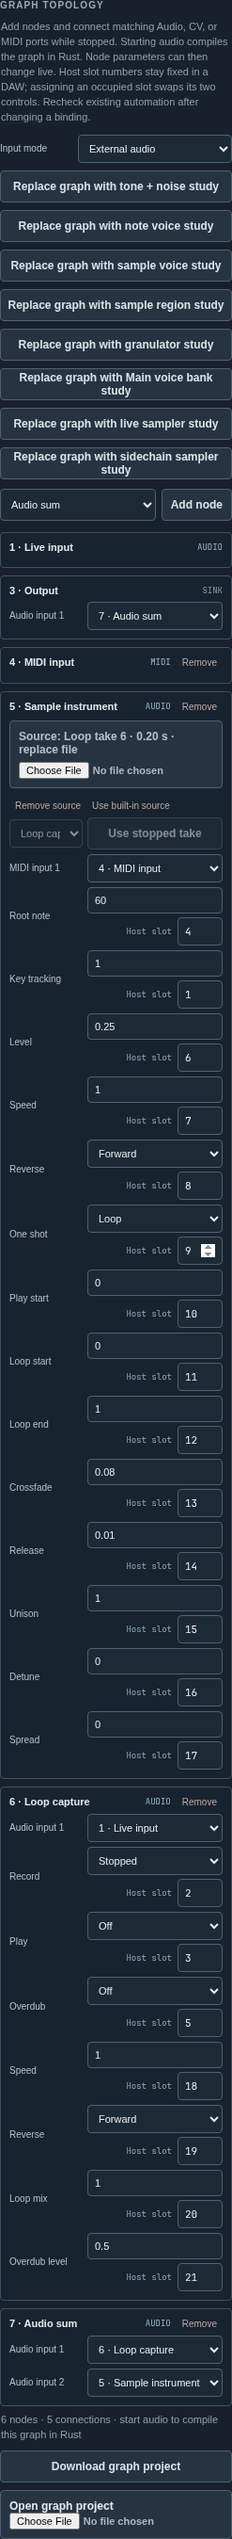
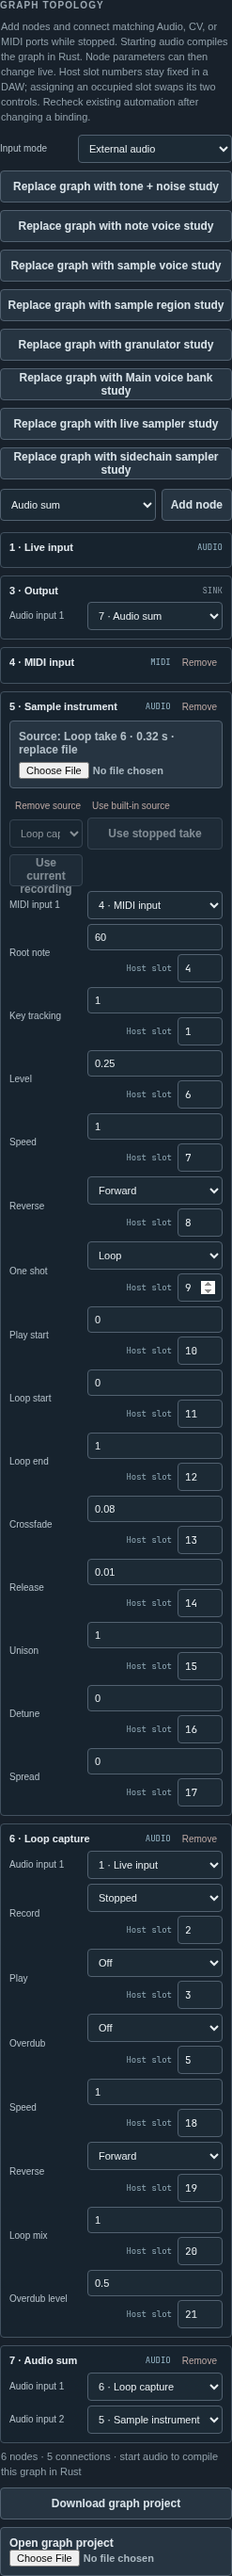
Publish recording window into running graph sampler

diff --git a/web/public/graph-recording-window-review.html b/web/public/graph-recording-window-review.html
@@ -1,0 +1,13 @@
+<!doctype html>
+<html lang="en"><head><meta charset="utf-8"><meta name="viewport" content="width=device-width, initial-scale=1">
+<title>Manifold v2 · Recording window handoff</title>
+<style>
+:root{color-scheme:light;--bg:#f5f4ef;--paper:#fffefa;--ink:#282d2a;--muted:#5b6860;--line:#d5dbd4;--accent:#315f50;--warm:#9c593d;font-family:system-ui,sans-serif}
+@media(prefers-color-scheme:dark){:root{color-scheme:dark;--bg:#171d1a;--paper:#212a25;--ink:#edece5;--muted:#b8c3b8;--line:#414d44;--accent:#a6d3b5;--warm:#e1a17f}}
+*{box-sizing:border-box}body{margin:0;background:var(--bg);color:var(--ink)}main{max-width:1020px;margin:auto;padding:3rem 1.2rem 5rem}h1,h2{font-family:Georgia,serif;font-weight:400;line-height:1.1}h1{font-size:clamp(3rem,7vw,5rem);margin:.6rem 0 1rem}h2{font-size:2rem;margin:0 0 1rem}p{line-height:1.55;max-width:74ch}.eyebrow,small{font:12px/1.5 ui-monospace,monospace;color:var(--warm);letter-spacing:.06em}header{border-top:2px solid var(--ink);padding-top:1.3rem}a{color:var(--accent)}.actions{display:flex;gap:.7rem;flex-wrap:wrap;margin:1.5rem 0}.actions a{border:1px solid var(--accent);padding:.6rem .9rem;text-decoration:none}.actions a:first-child{background:var(--accent);color:var(--paper)}section{border-top:1px solid var(--line);padding-top:1.4rem;margin-top:2.5rem}.grid{display:grid;grid-template-columns:repeat(3,1fr);gap:.8rem}.card{background:var(--paper);border:1px solid var(--line);padding:1rem}.card strong{display:block;font-size:1.05rem}.card p{font-size:.9rem;color:var(--muted)}.flow{display:flex;gap:.5rem;flex-wrap:wrap;align-items:center}.flow span{font:12px ui-monospace,monospace;border:1px solid var(--line);background:var(--paper);padding:.6rem}.flow b{color:var(--accent)}.note{border-left:3px solid var(--accent);background:var(--paper);padding:.8rem 1rem}.note p{margin:0}@media(max-width:680px){.grid{grid-template-columns:1fr}}
+</style></head><body><main>
+<header><div class="eyebrow">MANIFOLD V2 / SAMPLER CHECKPOINT / 27 SEPTEMBER 2026</div><h1>Take the window.<br>Keep recording.</h1><p>Loop Capture can now publish its current two-second ring window into a running Rust/Wasm Sample Instrument. The recorder continues; new notes adopt the window; held notes keep the PCM they started with.</p><div class="actions"><a href="/?primitive=graph-workspace">Open graph workspace</a><a href="/graph-live-sampler-review.html">Earlier stopped-take proof</a></div></header>
+<section><h2>Try the handoff</h2><div class="grid"><div class="card"><small>01 · START</small><strong>Load the live sampler study</strong><p>In Graph workspace choose the live sampler template. Start audio and play a note on the keyboard.</p></div><div class="card"><small>02 · RECORD</small><strong>Capture an input</strong><p>Set Loop capture 6 to Recording. The test oscillator works without microphone permission; the separate sidechain study also works.</p></div><div class="card"><small>03 · PUBLISH</small><strong>Use current recording</strong><p>Press the new button below Sample instrument 5. Play another note. Repeat while the recorder runs, or stop it and use the completed take.</p></div></div></section>
+<section><h2>What changes in the engine</h2><div class="flow"><span>stereo input</span><b>→</b><span>bounded ring</span><b>→</b><span>ordered snapshot</span><b>→</b><span>new-note source</span></div><p>One AudioWorklet message handler copies the ring oldest to newest, including after wrap, and publishes that same window to the Rust instrument between render calls. A transferable PCM copy becomes the graph project asset for save and reopen. The older “Use stopped take” control still requires recording to stop.</p><div class="note"><p>The deterministic worklet check exercises publication during recording, continued capture, held-note source continuity, new-note adoption, the stopped-take gate, and the sidechain input. The Rust ring test checks ordering after wrap. The full Rust workspace tests and browser build pass.</p></div></section>
+<section><h2>Next boundary</h2><p>This is a user-triggered snapshot, not an always-running retrospective capture service. Publication allocates and copies in a worklet message handler on the audio thread, so frequent or automatic publication needs staged transfer and an underrun measurement first. The two-second study is bounded; its sample data is saved with the graph project.</p></section>
+</main></body></html>

diff --git a/web/src/graph/editor.js b/web/src/graph/editor.js
@@ -239,23 +239,30 @@ export function mountGraphEditor(section, project, { isRunning, isActive, onChan
           publish.className = 'gate-button graph-capture-action';
           publish.textContent = 'Use stopped take';
           publish.setAttribute('aria-label', `Use stopped take for sample instrument ${node.id}`);
-          publish.addEventListener('click', async () => {
+          const publishLive = document.createElement('button');
+          publishLive.type = 'button';
+          publishLive.className = 'gate-button graph-capture-action';
+          publishLive.textContent = 'Use current recording';
+          publishLive.setAttribute('aria-label', `Use current recording for sample instrument ${node.id}`);
+          const useCapture = async (live) => {
             if (!isRunning() || !canChangeParameter()) return;
             const startingRevision = revision;
             busy = true;
             refreshRunning(false);
-            status.textContent = `Publishing loop capture ${source.value} to sample instrument ${node.id}…`;
+            status.textContent = `Publishing ${live ? 'recording window' : 'stopped take'} ${source.value} to sample instrument ${node.id}…`;
             try {
-              const asset = await onCapturePublish(Number(source.value), node.id);
+              const asset = await onCapturePublish(Number(source.value), node.id, live);
               if (destroyed || revision !== startingRevision || !isActive() || !isRunning()) return;
               const assets = [...(project.graphAssets ?? []).filter((item) => item.nodeId !== node.id),
                 { nodeId: node.id, sourceRate: asset.sourceRate, stereo: asset.stereo,
-                  label: `Loop take ${source.value}` }];
-              commit(project.signal, `Loop take ${source.value} is now the source for new notes. Held notes keep their previous source; project bundle includes the take.`, assets);
+                  label: `${live ? 'Recording window' : 'Loop take'} ${source.value}` }];
+              commit(project.signal, `${live ? 'Recording window' : 'Loop take'} ${source.value} is now the source for new notes. Held notes keep their previous source; project bundle includes the take.`, assets);
             } catch (error) { if (revision === startingRevision) fail(error); }
             finally { busy = false; refreshRunning(false); }
-          });
-          row.append(source, publish);
+          };
+          publish.addEventListener('click', () => useCapture(false));
+          publishLive.addEventListener('click', () => useCapture(true));
+          row.append(source, publish, publishLive);
           article.append(row);
         }
       }
@@ -621,7 +628,7 @@ export function mountGraphEditor(section, project, { isRunning, isActive, onChan
     try {
       const source = builtinSample();
       const signal = parseGraphProject(liveSampler);
-      commit(signal, 'Loaded the live sampler. Start audio, record a loop take, stop recording, then publish it to the sample instrument.',
+      commit(signal, 'Loaded the live sampler. Start audio and record Loop capture 6. Publish the current recording window to Sample instrument 5 at any time, or stop and use the completed take.',
         [{ nodeId: 5, sourceRate: source.sourceRate, stereo: source.stereo, label: 'Built-in two-tone source' }]);
       onTemplateLoaded?.('live-sampler');
     } catch (error) { fail(error); }
@@ -631,7 +638,7 @@ export function mountGraphEditor(section, project, { isRunning, isActive, onChan
     try {
       const source = builtinSample();
       const signal = parseGraphProject(sidechainSampler);
-      commit(signal, 'Loaded separate main and sidechain inputs. Start audio, record Loop capture 6, stop, then publish its sidechain take to Sample instrument 5.',
+      commit(signal, 'Loaded separate main and sidechain inputs. Start audio and record Loop capture 6; publish its current window while recording continues, or stop and use the completed sidechain take.',
         [{ nodeId: 5, sourceRate: source.sourceRate, stereo: source.stereo, label: 'Built-in two-tone source' }]);
       onTemplateLoaded?.('sidechain-sampler');
     } catch (error) { fail(error); }

diff --git a/web/src/audio/filter-processor.js b/web/src/audio/filter-processor.js
@@ -175,9 +175,32 @@ class ManifoldProjectProcessor extends AudioWorkletProcessor {
           this.inputView = new Float32Array(this.engine.memory.buffer, this.engine.manifold_input_ptr(), this.capacity * 4);
           this.outputView = new Float32Array(this.engine.memory.buffer, this.engine.manifold_output_ptr(), this.capacity * 2);
           this.port.postMessage({ type: 'capture-published', requestId: data.requestId, accepted });
+        } else if (data.type === 'capture-publish-live' && this.engine) {
+          const frames = this.engine.manifold_capture_snapshot_length(data.captureId);
+          if (!frames) {
+            this.port.postMessage({ type: 'capture-published', requestId: data.requestId, accepted: false });
+            return;
+          }
+          const stereo = new Float32Array(frames * 2);
+          for (let offset = 0; offset < frames;) {
+            const count = Math.min(this.capacity, frames - offset);
+            const copied = this.engine.manifold_capture_snapshot_copy(data.captureId, offset, count);
+            if (copied !== count) throw new Error('Recording window changed during snapshot');
+            stereo.set(new Float32Array(this.engine.memory.buffer, this.engine.manifold_output_ptr(), copied * 2), offset * 2);
+            offset += copied;
+          }
+          const accepted = this.engine.manifold_capture_publish_live(data.captureId, data.instrumentId) === 1;
+          this.inputView = new Float32Array(this.engine.memory.buffer, this.engine.manifold_input_ptr(), this.capacity * 4);
+          this.outputView = new Float32Array(this.engine.memory.buffer, this.engine.manifold_output_ptr(), this.capacity * 2);
+          this.port.postMessage({ type: 'capture-published', requestId: data.requestId, accepted,
+            sourceRate: sampleRate, stereo: accepted ? stereo : undefined }, accepted ? [stereo.buffer] : []);
         }
       } catch (error) {
-        this.port.postMessage({ type: data.type === 'capture-request' ? 'capture-error' : 'error', message: String(error) });
+        if (data.type === 'capture-publish-live' || data.type === 'capture-publish') {
+          this.port.postMessage({ type: 'capture-published', requestId: data.requestId, accepted: false, message: String(error) });
+        } else {
+          this.port.postMessage({ type: data.type === 'capture-request' ? 'capture-error' : 'error', message: String(error) });
+        }
       }
     };
   }

diff --git a/web/src/audio/browser-host.js b/web/src/audio/browser-host.js
@@ -101,7 +101,11 @@ export class BrowserAudioHost {
             if (pending) {
               this.pendingPublishes.delete(data.requestId);
               clearTimeout(pending.timeout);
-              data.accepted ? pending.resolve() : pending.reject(new Error('Rust rejected the capture publication. Stop recording and try again.'));
+              data.accepted
+                ? pending.resolve(pending.live ? { sourceRate: data.sourceRate, stereo: data.stereo } : undefined)
+                : pending.reject(new Error(data.message ?? (pending.live
+                  ? 'Rust rejected the recording window publication.'
+                  : 'Rust rejected the capture publication. Stop recording and try again.')));
             }
           }
           if ((data.type === 'capture' || data.type === 'capture-error') && this.pendingCapture) {
@@ -315,14 +319,22 @@ export class BrowserAudioHost {
   }
 
   publishCapture(captureId, instrumentId) {
+    return this.publishCaptureRequest(captureId, instrumentId, false);
+  }
+
+  publishLiveCapture(captureId, instrumentId) {
+    return this.publishCaptureRequest(captureId, instrumentId, true);
+  }
+
+  publishCaptureRequest(captureId, instrumentId, live) {
     if (!this.processor || !this.ready) return Promise.reject(new Error('Start audio before publishing a take.'));
     return new Promise((resolve, reject) => {
       const requestId = this.nextPublishRequest++;
       const timeout = setTimeout(() => {
         if (this.pendingPublishes.delete(requestId)) reject(new Error('Capture publication timed out.'));
       }, 10_000);
-      this.pendingPublishes.set(requestId, { resolve, reject, timeout });
-      this.processor.port.postMessage({ type: 'capture-publish', requestId, captureId, instrumentId });
+      this.pendingPublishes.set(requestId, { resolve, reject, timeout, live });
+      this.processor.port.postMessage({ type: live ? 'capture-publish-live' : 'capture-publish', requestId, captureId, instrumentId });
     });
   }
 

diff --git a/web/src/main.js b/web/src/main.js
@@ -1597,7 +1597,8 @@ function renderPrimitive(family) {
       },
       onParameter: (nodeId, id, value) => audio.setNodeParameter(nodeId, id, value),
       onTemporalSpeed: (nodeId, speed) => audio.setTemporalSpeed(speed, nodeId),
-      onCapturePublish: async (captureId, instrumentId) => {
+      onCapturePublish: async (captureId, instrumentId, live = false) => {
+        if (live) return audio.publishLiveCapture(captureId, instrumentId);
         const take = await audio.captureSnapshot(captureId);
         await audio.publishCapture(captureId, instrumentId);
         return take;

diff --git a/crates/manifold-core/src/graph.rs b/crates/manifold-core/src/graph.rs
@@ -1801,6 +1801,16 @@ impl ExecutionPlan {
             })
     }
 
+    pub fn capture_snapshot_length(&self, node: NodeId) -> Option<usize> {
+        self.nodes
+            .iter()
+            .find(|entry| entry.id == node)
+            .and_then(|entry| match &entry.kernel {
+                Kernel::LoopCapture(loop_node) => Some(loop_node.snapshot_length()),
+                _ => None,
+            })
+    }
+
     pub fn copy_capture_interleaved(
         &self,
         node: NodeId,
@@ -1818,9 +1828,40 @@ impl ExecutionPlan {
             })
     }
 
+    pub fn copy_capture_snapshot_interleaved(
+        &self,
+        node: NodeId,
+        start_frame: usize,
+        output: &mut [f32],
+    ) -> usize {
+        self.nodes
+            .iter()
+            .find(|entry| entry.id == node)
+            .map_or(0, |entry| match &entry.kernel {
+                Kernel::LoopCapture(loop_node) => {
+                    loop_node.copy_snapshot_interleaved(start_frame, output)
+                }
+                _ => 0,
+            })
+    }
+
     /// Publish a stopped capture to a sample instrument between process calls.
     /// The source ring is copied once; held notes retain their previous PCM.
     pub fn publish_capture_to_instrument(&mut self, capture: NodeId, instrument: NodeId) -> bool {
+        self.publish_capture(capture, instrument, false)
+    }
+
+    /// Publish the current ring window while recording continues. New notes adopt it;
+    /// held notes retain the PCM that was current when they started.
+    pub fn publish_live_capture_to_instrument(
+        &mut self,
+        capture: NodeId,
+        instrument: NodeId,
+    ) -> bool {
+        self.publish_capture(capture, instrument, true)
+    }
+
+    fn publish_capture(&mut self, capture: NodeId, instrument: NodeId, live: bool) -> bool {
         if capture == instrument
             || !self.nodes.iter().any(|entry| {
                 entry.id == instrument && matches!(entry.kernel, Kernel::SampleInstrument(_))
@@ -1828,11 +1869,21 @@ impl ExecutionPlan {
         {
             return false;
         }
-        let Some(frames) = self.capture_length(capture).filter(|frames| *frames > 0) else {
+        let Some(frames) = (if live {
+            self.capture_snapshot_length(capture)
+        } else {
+            self.capture_length(capture)
+        })
+        .filter(|frames| *frames > 0) else {
             return false;
         };
         let mut stereo = vec![0.0; frames * 2];
-        if self.copy_capture_interleaved(capture, 0, &mut stereo) != frames {
+        let copied = if live {
+            self.copy_capture_snapshot_interleaved(capture, 0, &mut stereo)
+        } else {
+            self.copy_capture_interleaved(capture, 0, &mut stereo)
+        };
+        if copied != frames {
             return false;
         }
         self.nodes

diff --git a/crates/manifold-core/src/loop_capture.rs b/crates/manifold-core/src/loop_capture.rs
@@ -104,14 +104,32 @@ impl LoopCapture {
         (!self.recording).then_some(self.length)
     }
 
+    /// Current ring window, ordered oldest to newest, including while recording.
+    pub fn snapshot_length(&self) -> usize {
+        self.length
+    }
+
     /// Copy a bounded chunk without allocating. The caller may invoke this between blocks.
     pub fn copy_capture_interleaved(&self, start_frame: usize, output: &mut [f32]) -> usize {
-        if self.recording || start_frame >= self.length {
+        if self.recording {
             return 0;
         }
+        self.copy_snapshot_interleaved(start_frame, output)
+    }
+
+    /// Copy the current ring window between process blocks, including while recording.
+    pub fn copy_snapshot_interleaved(&self, start_frame: usize, output: &mut [f32]) -> usize {
+        if start_frame >= self.length {
+            return 0;
+        }
+        let start = if self.recording && self.length == self.left.len() {
+            self.write
+        } else {
+            self.start
+        };
         let frames = (output.len() / 2).min(self.length - start_frame);
         for frame in 0..frames {
-            let index = (self.start + start_frame + frame) % self.left.len();
+            let index = (start + start_frame + frame) % self.left.len();
             output[frame * 2] = self.left[index];
             output[frame * 2 + 1] = self.right[index];
         }
@@ -258,6 +276,27 @@ mod tests {
         assert_eq!(loop_node.copy_capture_interleaved(0, &mut [0.0; 4]), 0);
         loop_node.set_parameter(0, 0.0);
         assert_eq!(loop_node.capture_length(), Some(2));
+    }
+
+    #[test]
+    fn live_snapshot_tracks_wrapped_ring_without_stopping() {
+        let mut capture = LoopCapture::new(100.0, 0.05, 1.0);
+        capture.set_parameter(0, 1.0);
+        let mut left = [0.0; 7];
+        let mut right = [0.0; 7];
+        capture.process_planar(
+            [&[1., 2., 3., 4., 5., 6., 7.], &[0.; 7]],
+            [&mut left, &mut right],
+        );
+        assert_eq!(capture.capture_length(), None);
+        assert_eq!(capture.snapshot_length(), 5);
+        let mut snapshot = [0.; 10];
+        assert_eq!(capture.copy_snapshot_interleaved(0, &mut snapshot), 5);
+        assert_eq!(snapshot, [3., 0., 4., 0., 5., 0., 6., 0., 7., 0.]);
+        capture.process_planar([&[8., 9.], &[0.; 2]], [&mut left[..2], &mut right[..2]]);
+        assert_eq!(capture.copy_snapshot_interleaved(0, &mut snapshot), 5);
+        assert_eq!(snapshot, [5., 0., 6., 0., 7., 0., 8., 0., 9., 0.]);
+        assert_eq!(capture.copy_capture_interleaved(0, &mut snapshot), 0);
     }
 
     #[test]

diff --git a/crates/manifold-web/src/lib.rs b/crates/manifold-web/src/lib.rs
@@ -1525,6 +1525,18 @@ pub extern "C" fn manifold_capture_length(node_id: u32) -> u32 {
     })
 }
 
+/// Current ring window's frame count, including while recording.
+#[unsafe(no_mangle)]
+pub extern "C" fn manifold_capture_snapshot_length(node_id: u32) -> u32 {
+    ENGINE.with(|slot| {
+        slot.borrow()
+            .as_ref()
+            .and_then(|engine| engine.plan.capture_snapshot_length(node_id.into()))
+            .and_then(|frames| u32::try_from(frames).ok())
+            .unwrap_or(0)
+    })
+}
+
 /// Copy a chunk as interleaved stereo into the prepared output scratch buffer.
 /// Call only between process blocks; the next process() overwrites this buffer.
 #[unsafe(no_mangle)]
@@ -1543,6 +1555,27 @@ pub extern "C" fn manifold_capture_copy(node_id: u32, start_frame: u32, frames: 
     })
 }
 
+/// Copy the current ring window between process blocks, including while recording.
+#[unsafe(no_mangle)]
+pub extern "C" fn manifold_capture_snapshot_copy(
+    node_id: u32,
+    start_frame: u32,
+    frames: u32,
+) -> u32 {
+    ENGINE.with(|slot| {
+        slot.borrow_mut().as_mut().map_or(0, |engine| {
+            if frames == 0 || frames as usize > engine.capacity {
+                return 0;
+            }
+            engine.plan.copy_capture_snapshot_interleaved(
+                node_id.into(),
+                start_frame as usize,
+                &mut engine.output[..frames as usize * 2],
+            ) as u32
+        })
+    })
+}
+
 /// Publish a stopped loop take to a running sample instrument between blocks.
 /// Returns zero for an empty/recording capture or a wrong destination.
 #[unsafe(no_mangle)]
@@ -1553,6 +1586,20 @@ pub extern "C" fn manifold_capture_publish(capture_id: u32, instrument_id: u32) 
                 engine
                     .plan
                     .publish_capture_to_instrument(capture_id.into(), instrument_id.into()),
+            )
+        })
+    })
+}
+
+/// Publish the current ring window while recording continues.
+#[unsafe(no_mangle)]
+pub extern "C" fn manifold_capture_publish_live(capture_id: u32, instrument_id: u32) -> u32 {
+    ENGINE.with(|slot| {
+        slot.borrow_mut().as_mut().map_or(0, |engine| {
+            u32::from(
+                engine
+                    .plan
+                    .publish_live_capture_to_instrument(capture_id.into(), instrument_id.into()),
             )
         })
     })

diff --git a/docs/standalone-sample-migration.md b/docs/standalone-sample-migration.md
@@ -10,8 +10,8 @@ The sample view draws 256 stereo peak bins and play/loop markers. A separate Rus
 
 The [Sample instrument project](../projects/sample-instrument/project.json) now adds an eight-voice note router over one shared decoded sample. Each note has one to four prepared subvoice playheads with classic resampling speed, up to 32 cursors total; note on/off, velocity, channel, root note, key tracking, and oldest-voice stealing stay in Rust's timed event path. Browser keyboard and permitted Web MIDI devices feed the same path. An authored 0–200 ms note release lets a voice finish without a hard audio cut; zero retains an immediate stop, while All Notes Off stays an immediate panic stop. Released tails count as active until silent and are recycled before held voices. Unison count takes effect on new notes; detune and stereo spread can change held notes. Nine bounded meter values report the active note count and one playhead per note, polled at 10 Hz. Ten native Rust/Wasm cases cover note overlap, pitch, velocity, channels, stealing, one-shot, key tracking, release, and three unison scenarios. The browser exposes the file, keyboard, and MIDI controls before the longer parameter stack.
 
-A stopped [Loop capture](../projects/loop-capture/project.json) take can now be sent to Sample instrument, [Granulator](../projects/granulator/project.json), Main voice bank, or Main sample blend as its source. Rust copies the ring oldest-to-newest in chunks through prepared Wasm scratch, and the browser holds the transferred stereo PCM while it switches projects. Both Main destinations analyze the captured source in a worker and save it as embedded PCM in their project bundle; the bank resets old targets before a new one is auditioned. The [browser review](../web/public/main-capture-transfer-review.html) covers this path. The editable graph now adds a [live sampler study](../projects/graph-workspace/live-sampler.json): a LoopCapture node records the graph's external stereo input, and a stopped take can be published to the running SampleInstrument. Held notes continue on the previous source; new notes use the take. The [review](../web/public/graph-live-sampler-review.html) includes browser save/reopen and Rust/Wasm worklet verification. A [sidechain sampler graph](../projects/graph-workspace/sidechain-sampler.json) now provides a distinct second stereo bus for the capture path; the browser can feed it from an independent test oscillator or a microphone. Continuous publication while recording remains open. The current Loop Capture view has a two-second capacity, and transfer requires stopping recording while its graph is still running.
+A stopped [Loop capture](../projects/loop-capture/project.json) take can now be sent to Sample instrument, [Granulator](../projects/granulator/project.json), Main voice bank, or Main sample blend as its source. Rust copies the ring oldest-to-newest in chunks through prepared Wasm scratch, and the browser holds the transferred stereo PCM while it switches projects. Both Main destinations analyze the captured source in a worker and save it as embedded PCM in their project bundle; the bank resets old targets before a new one is auditioned. The [browser review](../web/public/main-capture-transfer-review.html) covers this path. The editable graph adds a [live sampler study](../projects/graph-workspace/live-sampler.json): a LoopCapture node records the graph's external stereo input. Its current ring window can be published to the running SampleInstrument without stopping recording, or a stopped take can be published as before. Held notes continue on their previous source; new notes use the latest publication. The [recording-window review](../web/public/graph-recording-window-review.html) describes the new path. A [sidechain sampler graph](../projects/graph-workspace/sidechain-sampler.json) provides a distinct second stereo bus for the capture path; the browser can feed it from an independent test oscillator or a microphone. The current Loop Capture view has a two-second capacity. Publication happens only when the user requests it; automatic source replacement each block and an always-running retrospective recorder remain open.
 
 The old C++ source blends its tail region near `loopEnd` regardless of playback direction. The v2 slice blends near the active seam in both directions, skips the overlapping head on wrap, and leaves one-shot playback unfaded. This symmetric reverse behavior is an intentional redesign; the seven comparisons use native Rust references and do not claim exact C++ parity.
 
-The v2 projects still do not reproduce the full old Standalone Sample: the original dynamic sample slot semantics and continuous capture during recording, phase vocoder pitch modes, the original eight-subvoice unison ceiling and smoothing behavior, legacy partial extraction, and state transfer across graph rebuilds remain. The new key tracking control permits continuous values, while the old classic mode used an on/off switch; the adjustable release is also an authored v2 behavior. The ten instrument comparisons are native Rust references and do not claim full C++/Lua project parity. A later host-facing Standalone Sample preset format must define those contracts. Sample storage is owned by the prepared graph; decoding and analysis stay outside the audio callback.
+The v2 projects still do not reproduce the full old Standalone Sample: the original dynamic sample slot semantics and always-on retrospective capture, phase vocoder pitch modes, the original eight-subvoice unison ceiling and smoothing behavior, legacy partial extraction, and state transfer across graph rebuilds remain. The new key tracking control permits continuous values, while the old classic mode used an on/off switch; the adjustable release is also an authored v2 behavior. The ten instrument comparisons are native Rust references and do not claim full C++/Lua project parity. A later host-facing Standalone Sample preset format must define those contracts. Sample storage is owned by the prepared graph; decoding and analysis stay outside the audio callback.

diff --git a/docs/architecture.md b/docs/architecture.md
@@ -41,6 +41,8 @@ The first Rust analyzer preserves the legacy eight-band one-pole estimator and s
 
 The first cross-project sample transfer exports a stopped Loop Capture take through a message handler. Rust copies oldest-to-newest ring frames into the worklet's prepared output scratch in bounded chunks. The handler assembles a transferable `Float32Array` outside `process()`; the browser host keeps that PCM while it closes the capture graph and prepares the Sample instrument graph. The source rate travels with the PCM. This is a host transaction between projects, not a per-sample graph edge, and the capture is rejected while recording continues.
 
+The editable graph also exposes an explicit recording-window publication. Between render calls the worklet copies the current Loop Capture ring window oldest-to-newest, even after wrap, then asks the Rust plan to publish the same window to a running SampleInstrument. Both operations run in one message handler, so `process()` cannot advance the ring between the project asset copy and the instrument publication. Existing notes retain their previous PCM; subsequent notes use the new source. The stopped-take API retains its recording gate. The ring is bounded by its configured capacity, currently two seconds in the sampler study. The worklet handler still allocates and copies on the audio thread outside `process()`; publication can cause a glitch and needs a staged transfer design before it becomes an automatic or frequent operation.
+
 Source analysis uses a separate Web Worker with its own Rust/Wasm instance. The browser transfers a copy of decoded PCM to that worker; Rust computes 256 stereo peak bins, peak, RMS, and a bounded YIN-style pitch estimate. The result is 512 peak floats plus four scalars. The main thread draws the waveform and may offer the detected MIDI root as an explicit control action; analysis never changes pitch mapping on its own. The worker and its allocations are isolated from the live audio worklet. If workers are unavailable, the page computes waveform peaks locally and leaves the analysis readout unavailable.
 
 The sampler prepares eight note slots with four `SampleRegion` cursors each. Cursors share immutable PCM buffers; when a stopped take is published in a running graph, held notes keep the prior buffer and later notes adopt the new one. The callback visits only active subvoices. This caps worst-case work and leaves note allocation free of heap operations. Pan and normalization gains are calculated when parameters change, so the sample loop only multiplies by prepared values. The first v2 unison slice supports one to four subvoices; changing the count affects new notes, while detune and pan spread update sounding notes. The legacy playback node permits eight subvoices and smooths their gain and spread, so increasing this ceiling and matching its transitions remain separate steps.
